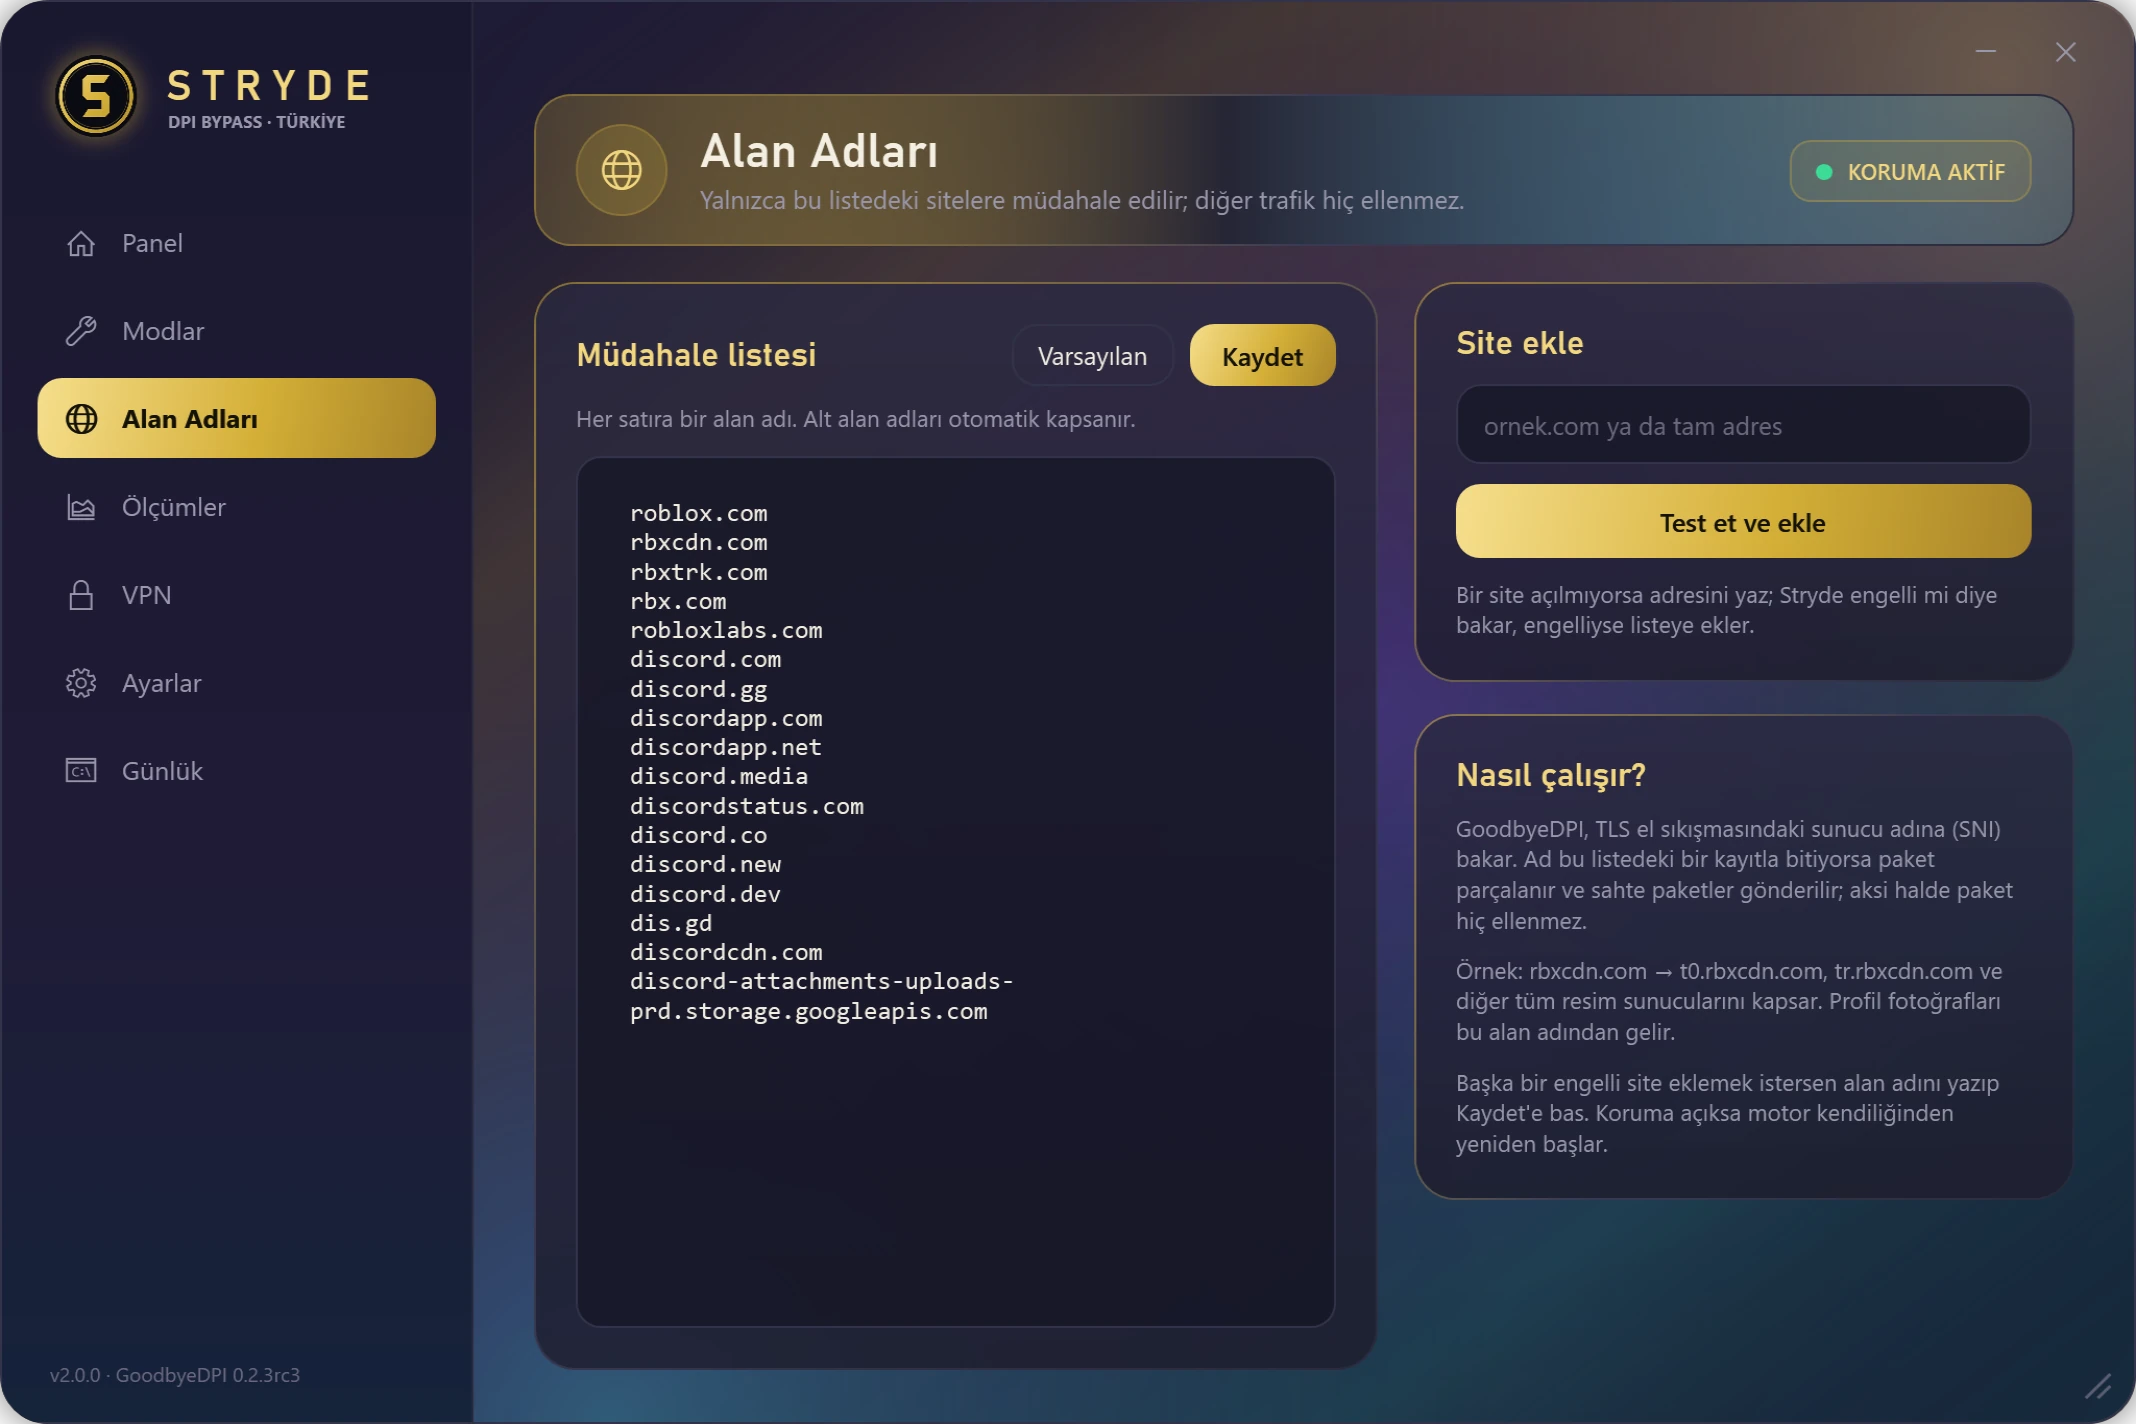
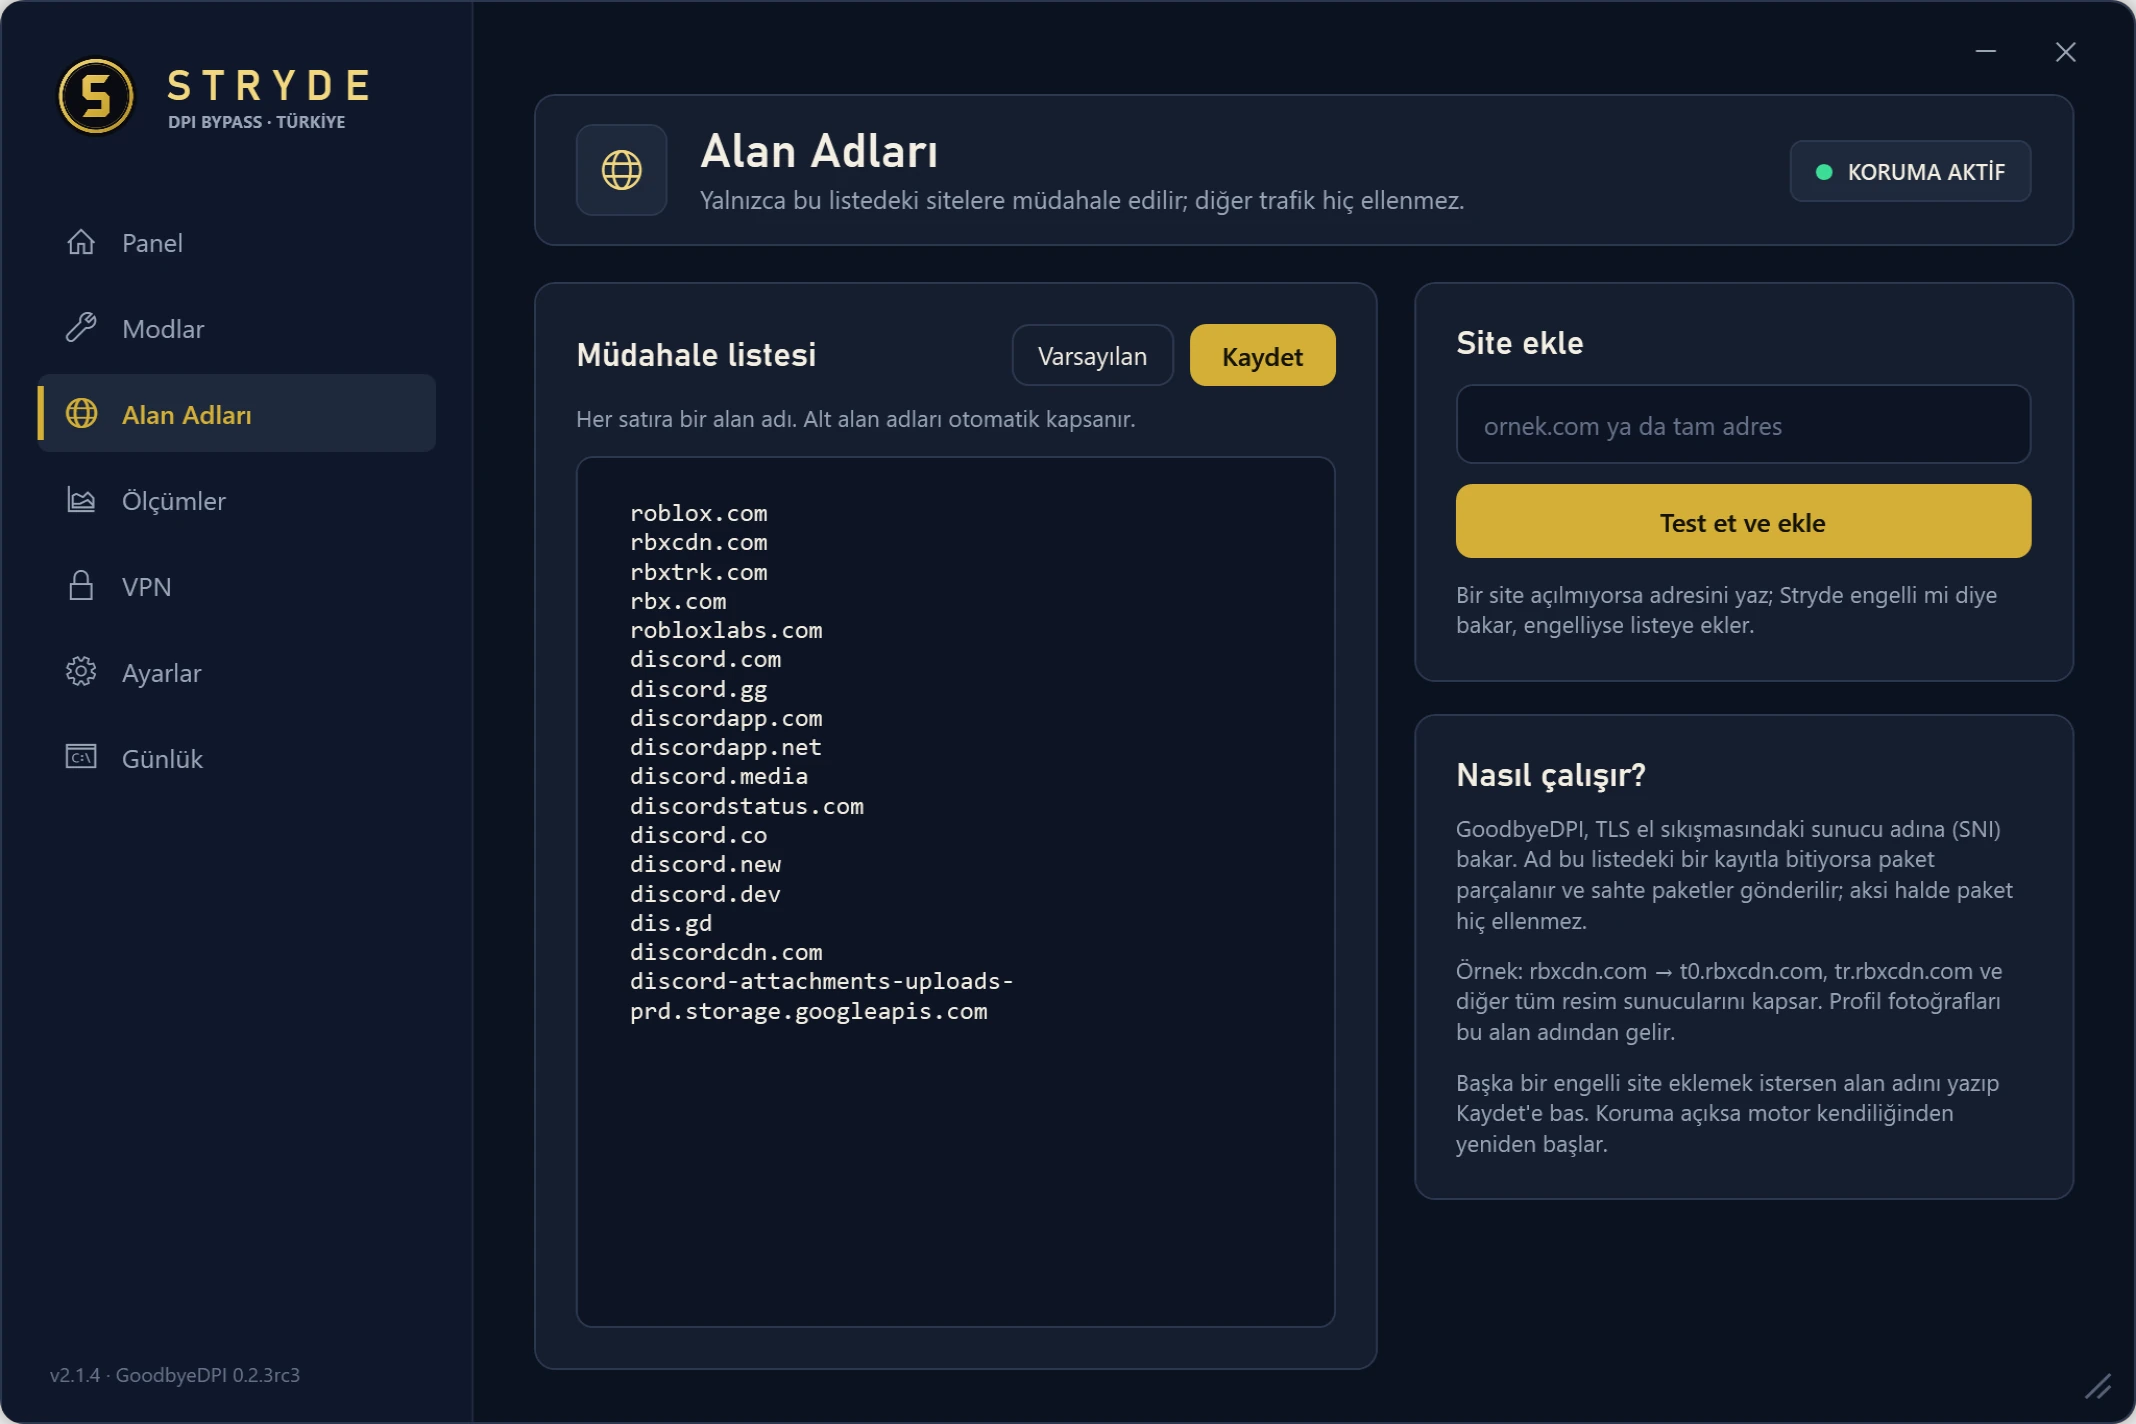
Yeni görünümle ekran görüntüleri, sürüm listesi: 2.1.4

diff --git a/docs/index.html b/docs/index.html
@@ -110,7 +110,7 @@
   .elsewhere p { margin: 0 0 10px; }
   .window { margin-top: clamp(40px, 5vw, 72px); }
   /* Uygulama görüntüleri sayfanın zeminine değil, uygulamanın kendi lacivertine oturur: açık temada da koyu temada da uyumlu durur */
-  .stage { background: #161528; border-radius: 6px; padding: clamp(12px, 4vw, 56px); }
+  .stage { background: #0B1120; border-radius: 6px; padding: clamp(12px, 4vw, 56px); }
   .stage img { width: 100%; }
   .shots .stage { padding: clamp(10px, 1.8vw, 22px); }
 
@@ -339,9 +339,9 @@
       </div>
       <div>
         <ul class="log" id="surumler">
+          <li><b>2.1.4<time datetime="2026-11-15">15 Kasım 2026</time></b><span>Daha sade ve keskin görünüm: mat yüzeyler, gradyan ve parlama yok, yeni elmas imleç ve düzenlenmiş sayfalar.</span></li>
           <li><b>2.1.3<time datetime="2026-11-15">15 Kasım 2026</time></b><span>İmleçler yenilendi: altın çerçeveli lacivert ok, tıklanabilir yerlerde altın el ve Stryde çalışırken dönen dişli çark.</span></li>
           <li><b>2.1.2<time datetime="2026-11-15">15 Kasım 2026</time></b><span>Stryde'ın artık vurgu renginde kendi imleci var; istemezsen Ayarlar'dan kapatabilirsin.</span></li>
-          <li><b>2.1.1<time datetime="2026-11-15">15 Kasım 2026</time></b><span>Roblox ya da Discord açılınca kendiliğinden çalışma, erişim düşünce kendini onarma ve Sorun bildir düğmesi eklendi; güncellemeler artık imzalı.</span></li>
         </ul>
         <p class="more"><a href="https://github.com/Nestyyyyyy/stryde/releases" rel="noopener">Tüm sürümler</a></p>
       </div>
